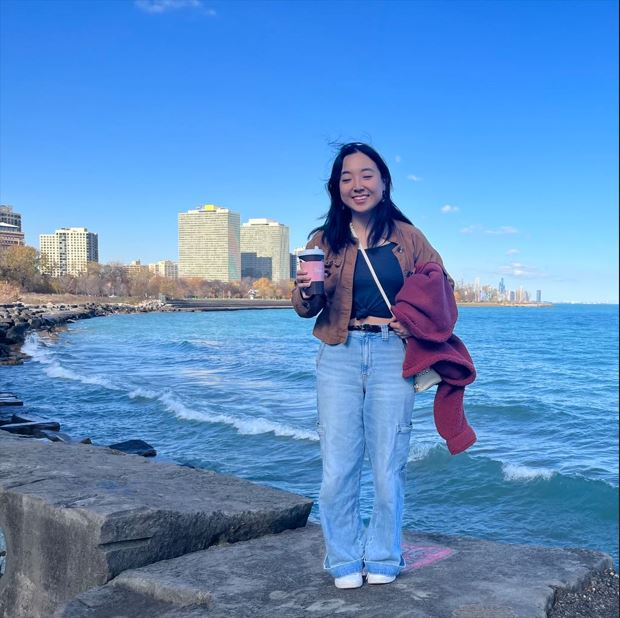
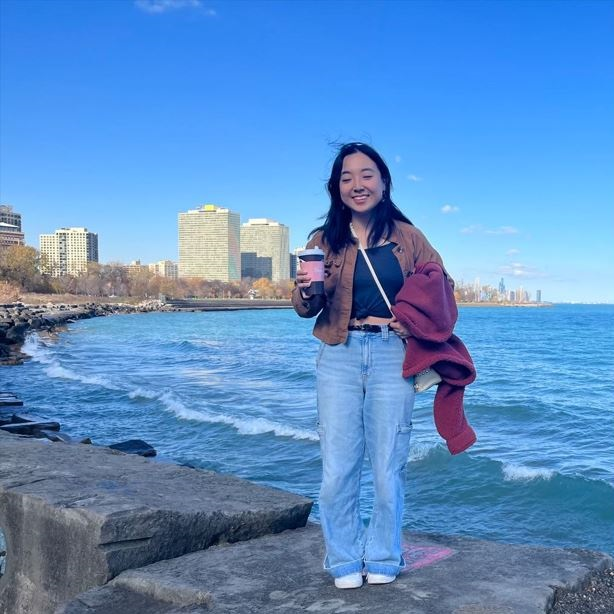
center photo

diff --git a/index.md b/index.md
@@ -3,7 +3,7 @@ layout: page
 title: About Me
 ---
 
-![me](/assets/img/my_chicago_face.JPG)
+<p align="center">![me](/assets/img/my_chicago_face.JPG)</p>
 
 Hello! My name is Zichen Liu (*zee-chen lee-oo*) and I'm a (bio)statistician.
 
